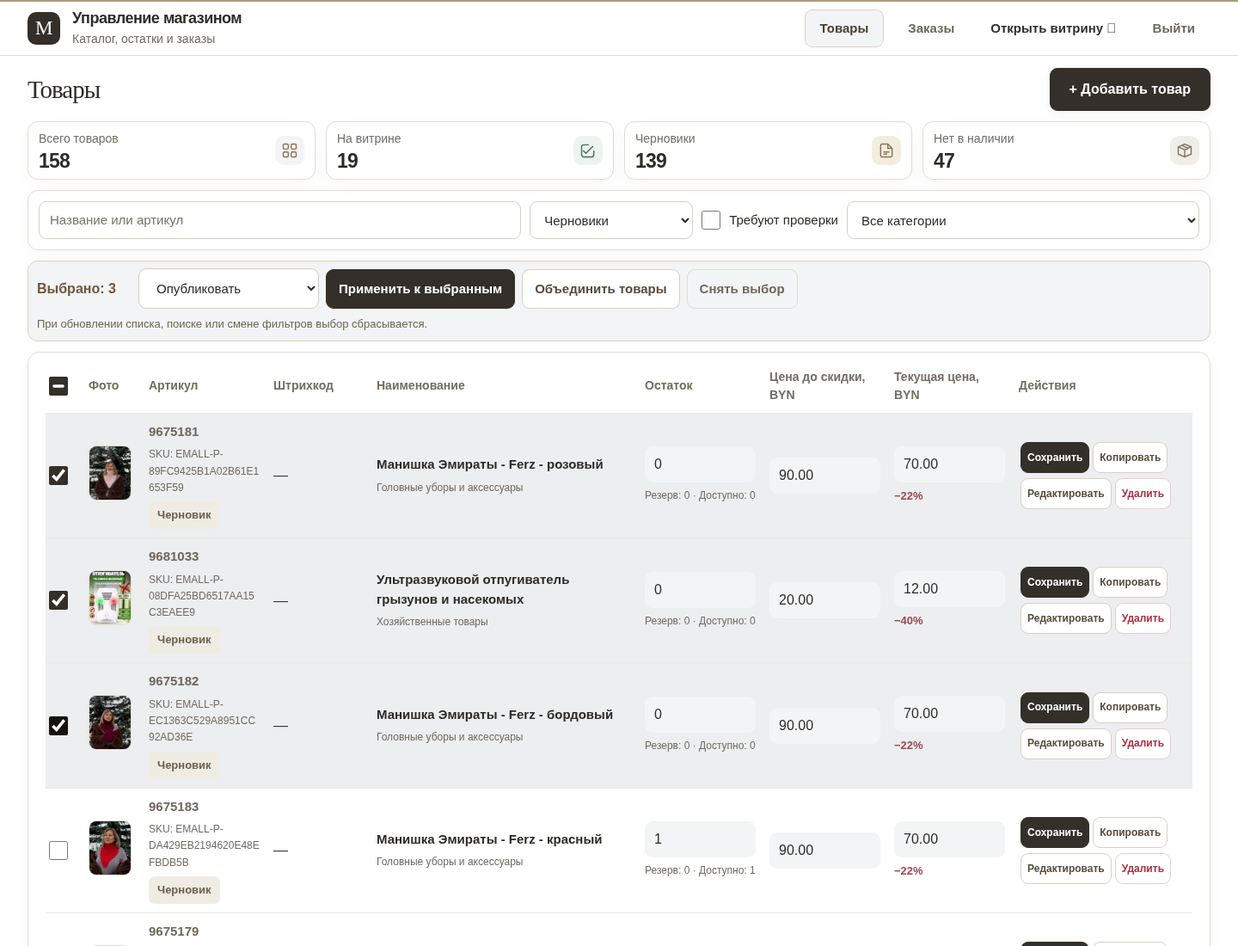
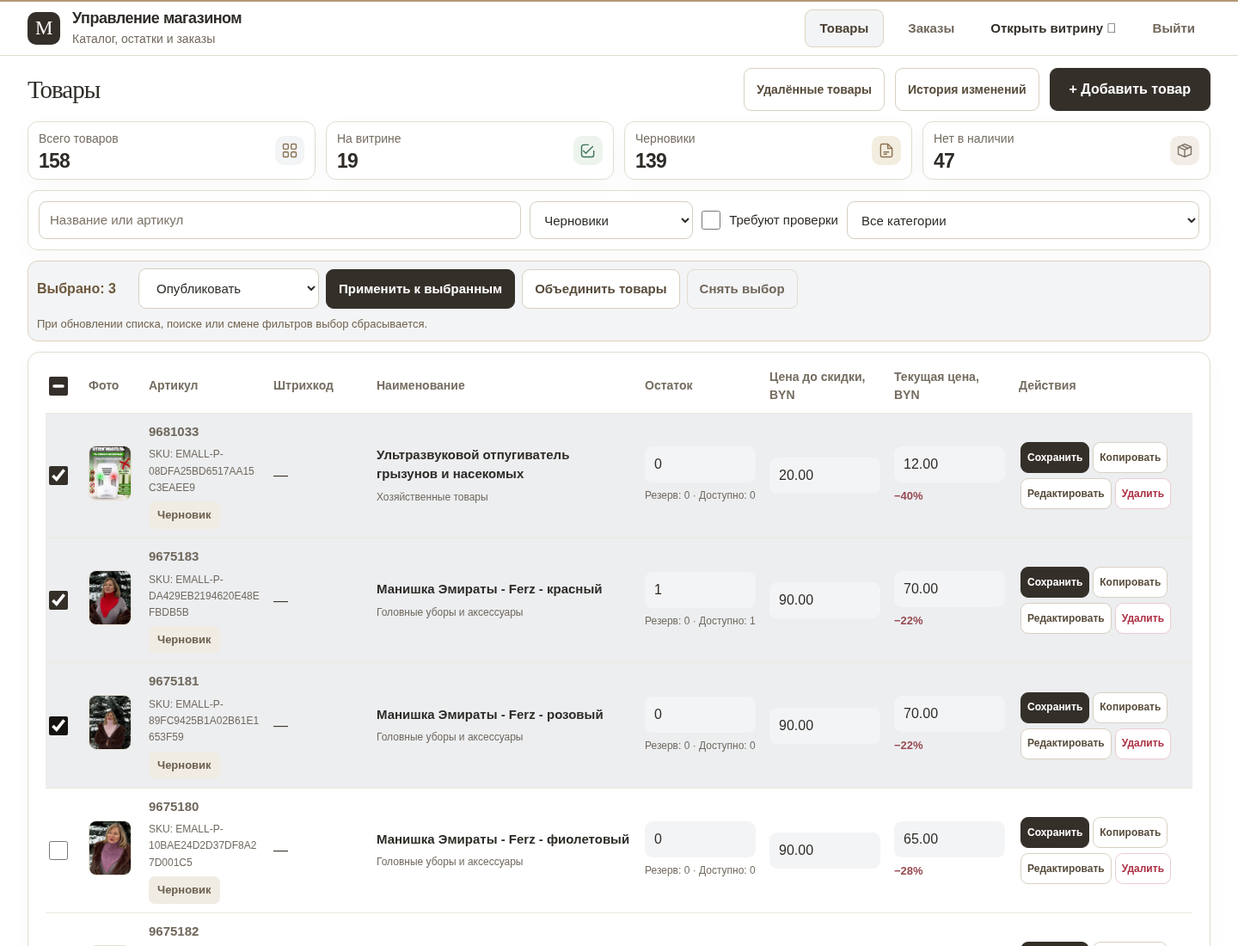
Add product recovery, variant splitting and audited price undo

diff --git a/admin/app.js b/admin/app.js
@@ -59,16 +59,26 @@ function renderList(){
   return (!state.review||reviewReasons(p).length>0)&&(state.status==='all'||p.status===state.status)&&matchCategory&&(!q||[p.name,path(p.cat),p.emallId||'',...p.variants.flatMap(v=>[v.sku,v.externalSku||'',v.emallProductId||'',v.options?.['Штрихкод']||'']),p.attrs?.['Штрихкод']||''].join(' ').toLocaleLowerCase('ru').includes(q));
  });
  state.visibleIds=products.map(p=>p.id);
- app.innerHTML=header()+`<main class="wrap page"><div class="heading"><div><span class="heading-eyebrow">Рабочее пространство</span><h1>Товары</h1><p class="heading-description">Карточки, цены и наличие — всё в одном месте</p></div><button class="btn" data-action="new">+ Добавить товар</button></div><section class="overview" aria-label="Сводка по товарам"><div class="metric"><div><span class="metric-label">Всего товаров</span><strong>${state.catalog.products.length}</strong></div><span class="metric-icon" aria-hidden="true"><svg viewBox="0 0 24 24" fill="none" stroke="currentColor" stroke-width="1.7"><rect x="3" y="3" width="7" height="7" rx="1.5"/><rect x="14" y="3" width="7" height="7" rx="1.5"/><rect x="3" y="14" width="7" height="7" rx="1.5"/><rect x="14" y="14" width="7" height="7" rx="1.5"/></svg></span></div><div class="metric published-metric"><div><span class="metric-label">На витрине</span><strong>${state.catalog.products.filter(p=>p.status==='published').length}</strong></div><span class="metric-icon" aria-hidden="true"><svg viewBox="0 0 24 24" fill="none" stroke="currentColor" stroke-width="1.7"><path d="m5 12 4 4L19 6"/><path d="M20 12v6a3 3 0 0 1-3 3H6a3 3 0 0 1-3-3V7a3 3 0 0 1 3-3h7"/></svg></span></div><div class="metric draft-metric"><div><span class="metric-label">Черновики</span><strong>${state.catalog.products.filter(p=>p.status==='draft').length}</strong></div><span class="metric-icon" aria-hidden="true"><svg viewBox="0 0 24 24" fill="none" stroke="currentColor" stroke-width="1.7"><path d="M14 3H6a2 2 0 0 0-2 2v14a2 2 0 0 0 2 2h12a2 2 0 0 0 2-2V9Z"/><path d="M14 3v6h6M8 14h8M8 17h5"/></svg></span></div><div class="metric stock-metric"><div><span class="metric-label">Нет в наличии</span><strong>${state.catalog.products.filter(p=>p.variants.every(v=>Math.max(0,v.stock-(v.reserved||0))===0)).length}</strong></div><span class="metric-icon" aria-hidden="true"><svg viewBox="0 0 24 24" fill="none" stroke="currentColor" stroke-width="1.7"><path d="m3 7 9-4 9 4v10l-9 4-9-4ZM3 7l9 4 9-4M12 11v10"/><path d="m8 5 9 4"/></svg></span></div></section><div id="messages">${messageHTML()}</div><div class="toolbar"><input type="search" id="search" aria-label="Поиск товаров" placeholder="Название или артикул" value="${esc(state.search)}"><select id="status-filter" aria-label="Статус товара"><option value="all">Все статусы</option><option value="draft" ${state.status==='draft'?'selected':''}>Черновики</option><option value="published" ${state.status==='published'?'selected':''}>На витрине</option></select><label><input type="checkbox" id="review-filter" ${state.review?'checked':''}> Требуют проверки</label><select id="category-filter" aria-label="Категория товара">${categoryOptions(state.category,true)}</select></div><div class="bulk-toolbar"><span aria-live="polite">Выбрано: ${state.selected.size}</span><select id="bulk-action" aria-label="Действие с выбранными товарами"><option value="publish" ${state.bulkAction==='publish'?'selected':''}>Опубликовать</option><option value="draft" ${state.bulkAction==='draft'?'selected':''}>Вернуть в черновики</option><option value="category" ${state.bulkAction==='category'?'selected':''}>Сменить категорию</option><option value="price" ${state.bulkAction==='price'?'selected':''}>Изменить цены</option><option value="delete" ${state.bulkAction==='delete'?'selected':''}>Удалить</option></select><select id="bulk-category" ${state.bulkAction!=='category'?'hidden':''} aria-label="Новая категория">${categoryOptions('')}</select><select id="price-mode" ${state.bulkAction!=='price'?'hidden':''} aria-label="Способ изменения цены"><option value="amount">На сумму, BYN</option><option value="percent">На процент</option></select><input id="price-amount" ${state.bulkAction!=='price'?'hidden':''} type="number" step="0.01" aria-label="Изменение цены" placeholder="Например: -10 или 5"><button class="btn small" data-action="bulk-apply" ${!state.selected.size||state.busy?'disabled':''}>Применить к выбранным</button><button class="btn secondary small" data-action="merge" ${state.selected.size<2||state.busy?'disabled':''}>Объединить товары</button><button class="btn plain small" data-action="clear-selection" ${!state.selected.size||state.busy?'disabled':''}>Снять выбор</button><span class="hint">При обновлении списка, поиске или смене фильтров выбор сбрасывается.</span></div><section class="panel table-scroll">${products.length?`<table class="list product-list quick-product-list"><thead><tr><th class="selection-cell"><input type="checkbox" id="select-all-products" aria-label="Выбрать все найденные товары" ${products.length&&products.every(p=>state.selected.has(p.id))?'checked':''} ${state.busy?'disabled':''}></th><th>Фото</th><th>Артикул</th><th>Штрихкод</th><th>Наименование</th><th>Остаток</th><th>Цена до скидки, BYN</th><th>Текущая цена, BYN</th><th>Действия</th></tr></thead><tbody>${products.map(p=>p.variants.map((v,i)=>{
+ app.innerHTML=header()+`<main class="wrap page"><div class="heading"><div><span class="heading-eyebrow">Рабочее пространство</span><h1>Товары</h1><p class="heading-description">Карточки, цены и наличие — всё в одном месте</p></div><div class="actions"><button class="btn secondary small" data-action="trash">Удалённые товары</button><button class="btn secondary small" data-action="history">История изменений</button><button class="btn" data-action="new">+ Добавить товар</button></div></div><section class="overview" aria-label="Сводка по товарам"><div class="metric"><div><span class="metric-label">Всего товаров</span><strong>${state.catalog.products.length}</strong></div><span class="metric-icon" aria-hidden="true"><svg viewBox="0 0 24 24" fill="none" stroke="currentColor" stroke-width="1.7"><rect x="3" y="3" width="7" height="7" rx="1.5"/><rect x="14" y="3" width="7" height="7" rx="1.5"/><rect x="3" y="14" width="7" height="7" rx="1.5"/><rect x="14" y="14" width="7" height="7" rx="1.5"/></svg></span></div><div class="metric published-metric"><div><span class="metric-label">На витрине</span><strong>${state.catalog.products.filter(p=>p.status==='published').length}</strong></div><span class="metric-icon" aria-hidden="true"><svg viewBox="0 0 24 24" fill="none" stroke="currentColor" stroke-width="1.7"><path d="m5 12 4 4L19 6"/><path d="M20 12v6a3 3 0 0 1-3 3H6a3 3 0 0 1-3-3V7a3 3 0 0 1 3-3h7"/></svg></span></div><div class="metric draft-metric"><div><span class="metric-label">Черновики</span><strong>${state.catalog.products.filter(p=>p.status==='draft').length}</strong></div><span class="metric-icon" aria-hidden="true"><svg viewBox="0 0 24 24" fill="none" stroke="currentColor" stroke-width="1.7"><path d="M14 3H6a2 2 0 0 0-2 2v14a2 2 0 0 0 2 2h12a2 2 0 0 0 2-2V9Z"/><path d="M14 3v6h6M8 14h8M8 17h5"/></svg></span></div><div class="metric stock-metric"><div><span class="metric-label">Нет в наличии</span><strong>${state.catalog.products.filter(p=>p.variants.every(v=>Math.max(0,v.stock-(v.reserved||0))===0)).length}</strong></div><span class="metric-icon" aria-hidden="true"><svg viewBox="0 0 24 24" fill="none" stroke="currentColor" stroke-width="1.7"><path d="m3 7 9-4 9 4v10l-9 4-9-4ZM3 7l9 4 9-4M12 11v10"/><path d="m8 5 9 4"/></svg></span></div></section><div id="messages">${messageHTML()}</div><div class="toolbar"><input type="search" id="search" aria-label="Поиск товаров" placeholder="Название или артикул" value="${esc(state.search)}"><select id="status-filter" aria-label="Статус товара"><option value="all">Все статусы</option><option value="draft" ${state.status==='draft'?'selected':''}>Черновики</option><option value="published" ${state.status==='published'?'selected':''}>На витрине</option></select><label><input type="checkbox" id="review-filter" ${state.review?'checked':''}> Требуют проверки</label><select id="category-filter" aria-label="Категория товара">${categoryOptions(state.category,true)}</select></div><div class="bulk-toolbar"><span aria-live="polite">Выбрано: ${state.selected.size}</span><select id="bulk-action" aria-label="Действие с выбранными товарами"><option value="publish" ${state.bulkAction==='publish'?'selected':''}>Опубликовать</option><option value="draft" ${state.bulkAction==='draft'?'selected':''}>Вернуть в черновики</option><option value="category" ${state.bulkAction==='category'?'selected':''}>Сменить категорию</option><option value="price" ${state.bulkAction==='price'?'selected':''}>Изменить цены</option><option value="delete" ${state.bulkAction==='delete'?'selected':''}>Удалить</option></select><select id="bulk-category" ${state.bulkAction!=='category'?'hidden':''} aria-label="Новая категория">${categoryOptions('')}</select><select id="price-mode" ${state.bulkAction!=='price'?'hidden':''} aria-label="Способ изменения цены"><option value="amount">На сумму, BYN</option><option value="percent">На процент</option></select><input id="price-amount" ${state.bulkAction!=='price'?'hidden':''} type="number" step="0.01" aria-label="Изменение цены" placeholder="Например: -10 или 5"><button class="btn small" data-action="bulk-apply" ${!state.selected.size||state.busy?'disabled':''}>Применить к выбранным</button><button class="btn secondary small" data-action="merge" ${state.selected.size<2||state.busy?'disabled':''}>Объединить товары</button><button class="btn plain small" data-action="clear-selection" ${!state.selected.size||state.busy?'disabled':''}>Снять выбор</button><span class="hint">При обновлении списка, поиске или смене фильтров выбор сбрасывается.</span></div><section class="panel table-scroll">${products.length?`<table class="list product-list quick-product-list"><thead><tr><th class="selection-cell"><input type="checkbox" id="select-all-products" aria-label="Выбрать все найденные товары" ${products.length&&products.every(p=>state.selected.has(p.id))?'checked':''} ${state.busy?'disabled':''}></th><th>Фото</th><th>Артикул</th><th>Штрихкод</th><th>Наименование</th><th>Остаток</th><th>Цена до скидки, BYN</th><th>Текущая цена, BYN</th><th>Действия</th></tr></thead><tbody>${products.map(p=>p.variants.map((v,i)=>{
  const image=v.images?.[0]||p.images?.[0],draft=quickEdits.get(v.sku)||v;
  const barcode=v.options?.['Штрихкод']||p.attrs?.['Штрихкод']||'';
  const field=(key,label,step)=>`<input type="number" min="0" step="${step}" data-quick-field="${key}" data-quick-sku="${esc(v.sku)}" aria-label="${label} ${esc(v.sku)}" value="${esc(key!=='stock'&&typeof draft[key]==='number'?draft[key].toFixed(2):(draft[key]??0))}" ${state.busy?'disabled':''}>`;
- return `<tr data-quick-row="${esc(v.sku)}"><td class="selection-cell">${i===0?`<input type="checkbox" data-select-product="${p.id}" aria-label="Выбрать ${esc(p.name)}" ${state.selected.has(p.id)?'checked':''} ${state.busy?'disabled':''}>`:''}</td><td>${image?`<img class="thumb" src="${esc(image)}" alt="">`:'<span class="thumb placeholder">▧</span>'}</td><td><strong>${esc(v.externalSku||v.emallProductId||p.emallId||v.sku)}</strong>${v.externalSku||p.emallId?`<p class="hint">SKU: ${esc(v.sku)}</p>`:''}<p><span class="badge ${p.status}">${p.status==='published'?'В продаже':'Черновик'}</span></p></td><td>${esc(barcode)||'—'}</td><td><strong>${esc(p.name)}</strong><p class="hint">${esc(path(p.cat))}</p>${p.variants.length>1?`<p class="hint">Вариантов: ${p.variants.length}</p><p class="hint">${esc(Object.entries(v.options||{}).map(([k,val])=>k+': '+val).join(' · ')||v.name||v.sku)}</p>`:''}${reviewReasons(p).length?`<p class="hint">${esc(reviewReasons(p).join(' · '))}</p>`:''}</td><td>${field('stock','Остаток','1')}<p class="hint">Резерв: ${v.reserved||0} · Доступно: ${v.available??Math.max(0,v.stock-(v.reserved||0))}</p></td><td>${field('old','Цена до скидки','0.01')}</td><td>${field('price','Текущая цена','0.01')}${Number(draft.old)>Number(draft.price)?`<span class="inline-discount">−${Math.round((1-Number(draft.price)/Number(draft.old))*100)}%</span>`:''}</td><td><button class="btn small" data-quick-save="${esc(v.sku)}" data-product="${p.id}" ${state.busy?'disabled':''}>Сохранить</button>${i===0?`<button class="btn secondary small" data-copy="${p.id}">Копировать</button><button class="btn secondary small" data-edit="${p.id}">Редактировать</button><button class="btn danger small" data-delete="${p.id}">Удалить</button>`:''}</td></tr>`;
+ return `<tr data-quick-row="${esc(v.sku)}"><td class="selection-cell">${i===0?`<input type="checkbox" data-select-product="${p.id}" aria-label="Выбрать ${esc(p.name)}" ${state.selected.has(p.id)?'checked':''} ${state.busy?'disabled':''}>`:''}</td><td>${image?`<img class="thumb" src="${esc(image)}" alt="">`:'<span class="thumb placeholder">▧</span>'}</td><td><strong>${esc(v.externalSku||v.emallProductId||p.emallId||v.sku)}</strong>${v.externalSku||p.emallId?`<p class="hint">SKU: ${esc(v.sku)}</p>`:''}<p><span class="badge ${p.status}">${p.status==='published'?'В продаже':'Черновик'}</span></p></td><td>${esc(barcode)||'—'}</td><td><strong>${esc(p.name)}</strong><p class="hint">${esc(path(p.cat))}</p>${p.variants.length>1?`<p class="hint">Вариантов: ${p.variants.length}</p><p class="hint">${esc(Object.entries(v.options||{}).map(([k,val])=>k+': '+val).join(' · ')||v.name||v.sku)}</p>`:''}${reviewReasons(p).length?`<p class="hint">${esc(reviewReasons(p).join(' · '))}</p>`:''}</td><td>${field('stock','Остаток','1')}<p class="hint">Резерв: ${v.reserved||0} · Доступно: ${v.available??Math.max(0,v.stock-(v.reserved||0))}</p></td><td>${field('old','Цена до скидки','0.01')}</td><td>${field('price','Текущая цена','0.01')}${Number(draft.old)>Number(draft.price)?`<span class="inline-discount">−${Math.round((1-Number(draft.price)/Number(draft.old))*100)}%</span>`:''}</td><td><button class="btn small" data-quick-save="${esc(v.sku)}" data-product="${p.id}" ${state.busy?'disabled':''}>Сохранить</button>${i===0?`${p.variants.length>1?`<button class="btn secondary small" data-split="${p.id}">Разъединить</button>`:''}<button class="btn secondary small" data-copy="${p.id}">Копировать</button><button class="btn secondary small" data-edit="${p.id}">Редактировать</button><button class="btn danger small" data-delete="${p.id}">Удалить</button>`:''}</td></tr>`;
  }).join('')).join('')}</tbody></table>`:'<div class="empty"><h2>Товары не найдены</h2><p class="muted">Измените условия поиска или добавьте новый товар.</p></div>'}</section></main>`;
  const allBox=document.querySelector('#select-all-products');if(allBox)allBox.indeterminate=products.some(p=>state.selected.has(p.id))&&!products.every(p=>state.selected.has(p.id));
  document.querySelectorAll('#search,#status-filter,#category-filter,#bulk-action,#bulk-category,#price-mode,#price-amount,#review-filter').forEach(input=>input.disabled=state.busy);
 }
 function emptyVariant(){return {sku:'SKU-'+crypto.randomUUID().slice(0,8).toUpperCase(),price:0,old:0,stock:0,color:'#cad6e8',options:Object.fromEntries(state.dimensions.map(key=>[key,''])),images:[]}}
+async function showRecovery(mode){
+ const data=await api('/api/admin/recovery'),dialog=document.createElement('dialog');dialog.className='price-preview';dialog.setAttribute('aria-label',mode==='trash'?'Удалённые товары':'История изменений');
+ const labels={edit:'Изменение товара',delete:'Удаление',restore:'Восстановление',split:'Разъединение',merge:'Объединение','bulk-price':'Массовое изменение цен','undo-price':'Отмена изменения цен','order-stock':'Списание по заказу'};
+ const time=value=>new Intl.DateTimeFormat('ru-RU',{dateStyle:'short',timeStyle:'short'}).format(new Date(value));
+ dialog.innerHTML='<h2>'+ (mode==='trash'?'Удалённые товары':'История изменений')+'</h2><p data-recovery-error role="alert" class="notice error" hidden></p><div class="price-preview-list">'+(mode==='trash'?(data.trash.length?data.trash.map(p=>'<section><strong>'+esc(p.name)+'</strong><p class="hint">Удалён: '+esc(time(p.deleted_at))+'</p><button class="btn secondary small" data-restore="'+esc(p.id)+'" data-version="'+p.version+'">Восстановить черновик</button></section>').join(''):'<p>Удалённых товаров нет.</p>'):(data.history.length?data.history.map(event=>'<section><strong>'+esc(labels[event.kind]||event.kind)+'</strong> · '+esc(time(event.time))+(event.undone?' · отменено':'')+'<p class="hint">'+event.names.map(esc).join(', ')+'</p>'+event.changes.map(change=>'<p>'+esc(change.name)+' · '+esc(change.sku)+'<br>Цена: '+money(change.before.price)+' → '+money(change.after.price)+'; до скидки: '+money(change.before.old)+' → '+money(change.after.old)+'; остаток: '+change.before.stock+' → '+change.after.stock+'</p>').join('')+'</section>').join(''):'<p>История записывается начиная с этого обновления.</p>'))+'</div><div class="actions">'+(mode==='history'&&data.lastPrice?'<button class="btn secondary" data-undo-price="'+data.lastPrice+'">Отменить последнее массовое изменение цен</button>':'')+'<button class="btn" data-close>Закрыть</button></div>';
+ const close=()=>{dialog.close();dialog.remove()};dialog.querySelector('[data-close]').onclick=close;dialog.oncancel=e=>{e.preventDefault();close()};
+ dialog.onclick=async e=>{const button=e.target.closest('button');if(!button)return;const d=button.dataset;if(!d.restore&&!d.undoPrice)return;if(d.undoPrice&&!confirm('Вернуть цены до последнего массового изменения? Более поздние изменения товаров отменены не будут: при конфликте операция будет отклонена.'))return;
+  dialog.querySelectorAll('button').forEach(b=>b.disabled=true);try{await api('/api/admin/recovery/'+(d.restore?'restore':'undo-price'),{method:'POST',body:d.restore?{id:d.restore,version:Number(d.version)}:{id:Number(d.undoPrice)}});await loadCatalog();state.selected.clear();state.message=d.restore?'Товар восстановлен черновиком.':'Массовое изменение цен отменено.';state.error='';renderList();close();await showRecovery(mode)}catch(error){const notice=dialog.querySelector('[data-recovery-error]');notice.hidden=false;notice.textContent=error.message;dialog.querySelectorAll('button').forEach(b=>b.disabled=false)}
+ };document.body.append(dialog);dialog.showModal();
+}
 function mergeOptions(products,dimensions){return new Promise(resolve=>{
  const rows=products.flatMap(p=>p.variants.map(v=>({p,v}))),dialog=document.createElement('dialog');dialog.className='price-preview';dialog.setAttribute('aria-label','Объединение товаров');
  dialog.innerHTML='<h2>Характеристики вариантов</h2><p>Каждая строка останется отдельным артикулом со своей ценой и остатком. Остальные карточки будут объединены с первой выбранной. Если статусы различаются, общая карточка станет черновиком.</p><form><p data-merge-error role="alert" class="notice error" hidden></p><div class="price-preview-list">'+rows.map(({p,v},i)=>'<section><strong>'+esc(p.name)+' · '+esc(v.sku)+'</strong>'+dimensions.map((key,j)=>'<label class="field">'+esc(key)+'<input required maxlength="500" data-row="'+i+'" data-dimension="'+j+'" value="'+esc(v.options[key]||p.attrs[key]||'')+'"></label>').join('')+'</section>').join('')+'</div><div class="actions"><button type="button" class="btn secondary" data-cancel>Отмена</button><button type="submit" class="btn">Объединить</button></div></form>';
@@ -184,6 +194,12 @@ app.addEventListener('click',async e=>{
    state.busy=true;document.querySelectorAll('[data-quick-save],[data-quick-field]').forEach(b=>b.disabled=true);
    try{const result=await api('/api/admin/products/'+p.id,{method:'PUT',body:{...p,variants:p.variants.map(item=>item.sku===v.sku?{...item,...values}:item)}});quickEdits.delete(v.sku);state.catalog.products=state.catalog.products.map(item=>item.id===p.id?result:item);if(state.selected.has(p.id))state.selected.set(p.id,result.version);state.error='';state.message='Цена и остаток сохранены: '+(v.externalSku||v.sku);}
    finally{state.busy=false;renderList()}return;
+  }
+  if(d.action==='trash'||d.action==='history')return await showRecovery(d.action);
+  if(d.split){
+   if(quickEdits.size)throw Error('Сначала сохраните изменения в строках.');const product=state.catalog.products.find(p=>p.id===d.split);if(!product)return;
+   if(!confirm('Разъединить модель «'+product.name+'»? Каждый вариант станет отдельной карточкой со своим артикулом, ценой, остатком и фотографиями.'))return;
+   state.busy=true;try{const result=await api('/api/admin/recovery/split',{method:'POST',body:{id:product.id,version:product.version}});state.selected.clear();state.message='Создано отдельных карточек: '+result.count;state.error='';await loadCatalog()}finally{state.busy=false;renderList()}return;
   }
   if(d.action==='merge'){
    if(quickEdits.size)throw Error('Сначала сохраните изменения в строках.');

diff --git a/README.md b/README.md
@@ -247,3 +247,10 @@ npm run test:ui
 В списке отметьте от 2 до 100 товаров одной категории и нажмите «Объединить товары». Укажите названия характеристик через запятую (например, `Цвет, Размер`), название общей модели и значения каждого SKU в появившемся окне. Сочетания характеристик должны различаться. Первая выбранная карточка становится общей; артикулы, фотографии, цены и остатки всех вариантов сохраняются. Остальные карточки архивируются, история заказов остаётся. При смешанных статусах общая карточка сохраняется черновиком. Объединение товара с активным резервом отклоняется до обработки заказа. Повторный импорт пропускает объединённые карточки и не разбивает модель на исходные товары; их дальнейшее изменение выполняется вручную.
 
 В редакторе есть отдельные поля «Производитель» и «Страна производства». Для страны доступны подсказки Китай, РБ и РФ; можно ввести другую страну. Значения не назначаются автоматически. Сведения об импортёре скрыты в характеристиках витрины и админки. Старая цена может быть ниже текущей или равняться ей; скидка показывается только при фактическом снижении цены.
+
+## Восстановление и история действий
+
+- **Удалённые товары** открывают корзину. «Восстановить черновик» возвращает карточку с прежними SKU, фотографиями, ценами и остатками, после чего её можно проверить и опубликовать. Карточки, оставшиеся без SKU после объединения, отдельно не восстанавливаются: это создало бы дубликаты вариантов.
+- **Разъединить** в строке модели превращает каждый её SKU в отдельную карточку. Название дополняется значениями варианта; цена, остаток, артикул, фотографии и статус сохраняются. Это работает и для моделей, объединённых до появления истории. Пока есть активный резерв, разъединение отклоняется. Импорт по-прежнему не перезаписывает такие ручные карточки.
+- **История изменений** показывает последние 200 операций и прежние/новые цены, цены до скидки и физические остатки. Запись начинается после установки этого обновления. Списания при отправке/выдаче заказа также фиксируются. История хранится в той же SQLite-базе внутри `var/` и сохраняется после перезапуска.
+- **Отменить последнее массовое изменение цен** находится в истории. Возвращаются только текущие и старые цены; остатки и данные заказов не переписываются. Все товары проверяются в одной транзакции: если после операции карточку редактировали, удалили, разделили или списали её остаток, отмена целиком отклоняется. Одну последнюю операцию можно отменить один раз.
